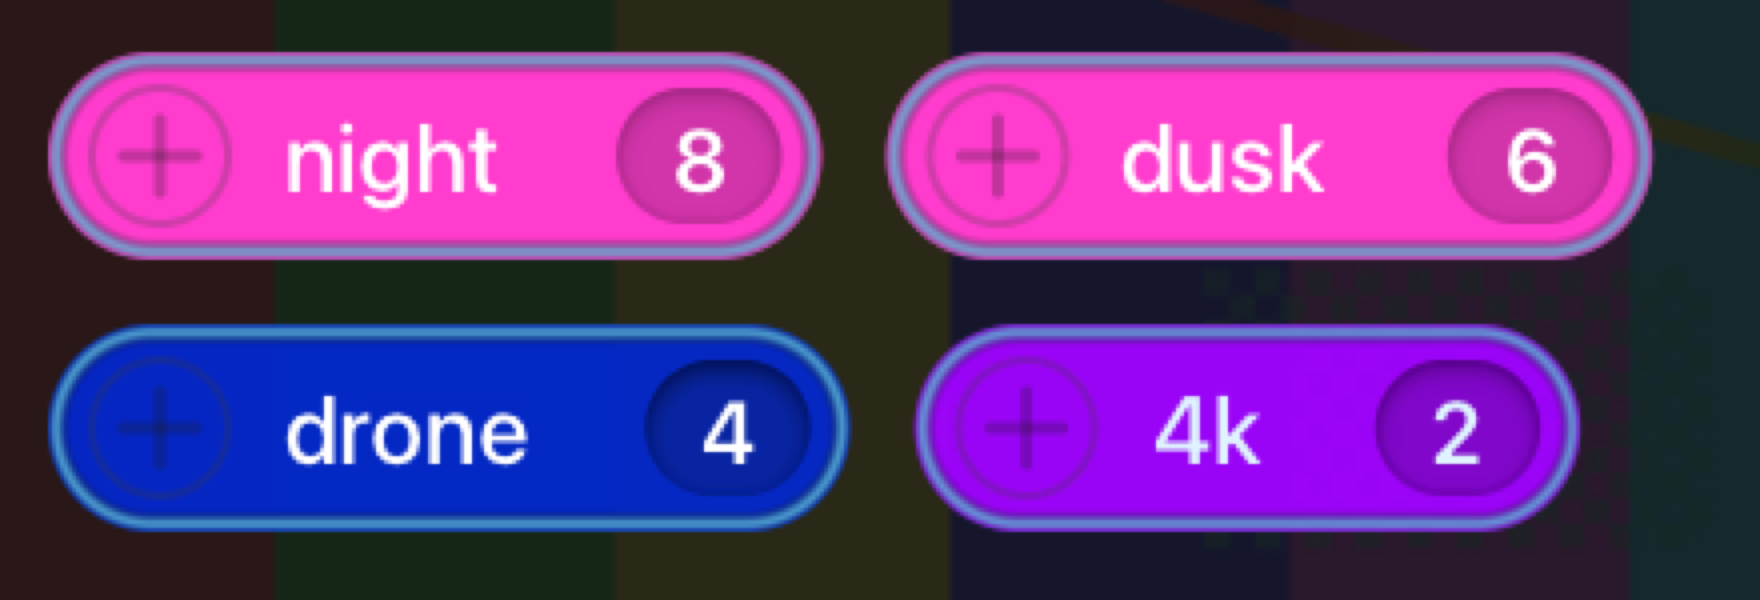
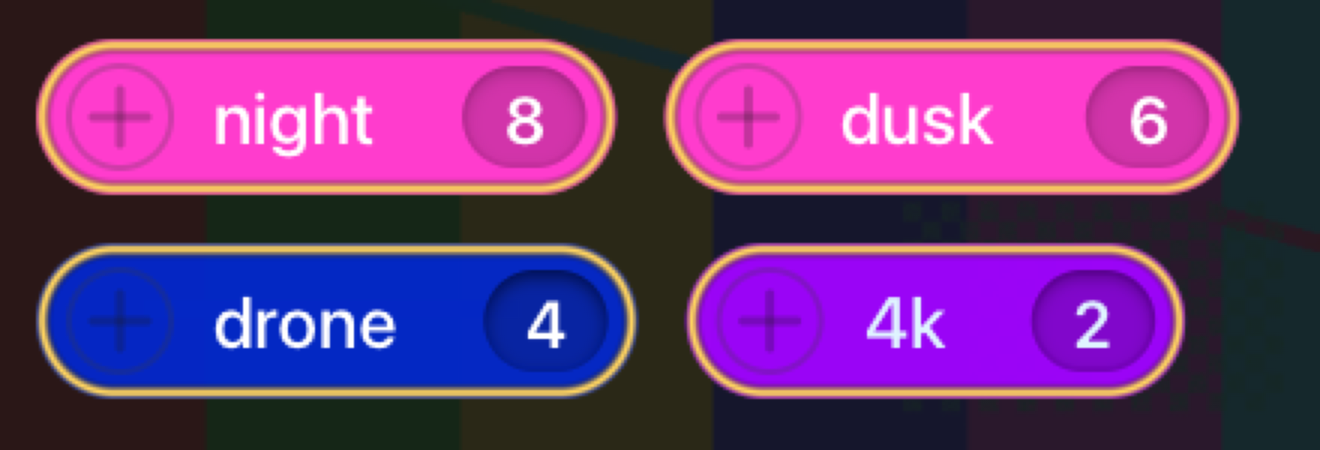
Note the gold rings on Switchblade's popup chips
Claude-Session: 6adb3433-0ed1-4fb0-ba89-84446ff93920

Changed region(s): [[0.0, 0.5289, 0.9008, 0.9022], [0.497, 0.0622, 0.9629, 0.4356], [0.0, 0.0622, 0.4659, 0.4356]]

diff --git a/TASKS.md b/TASKS.md
@@ -265,7 +265,8 @@ the fill's own alpha. Seen running with a hot, a cold and a person pill
 Popup chips follow the component's later edit since 2026-11-13 (Switchblade
 branch `figma-popup-chips`): on a heat tone the add well is a faint outline
 around a faint dark plus with no fill, the count disc is 15 tall, and its
-stroke and inner shadow follow the tone. Seen running with Command held
+stroke and inner shadow follow the tone, and every ring is the component's
+gold. Seen running with Command held
 ([docs/switchblade-chips-addable-in-app.png](docs/switchblade-chips-addable-in-app.png)).
 
 Chip widths were wrong until 2026-11-12: Switchblade kept room for the add
